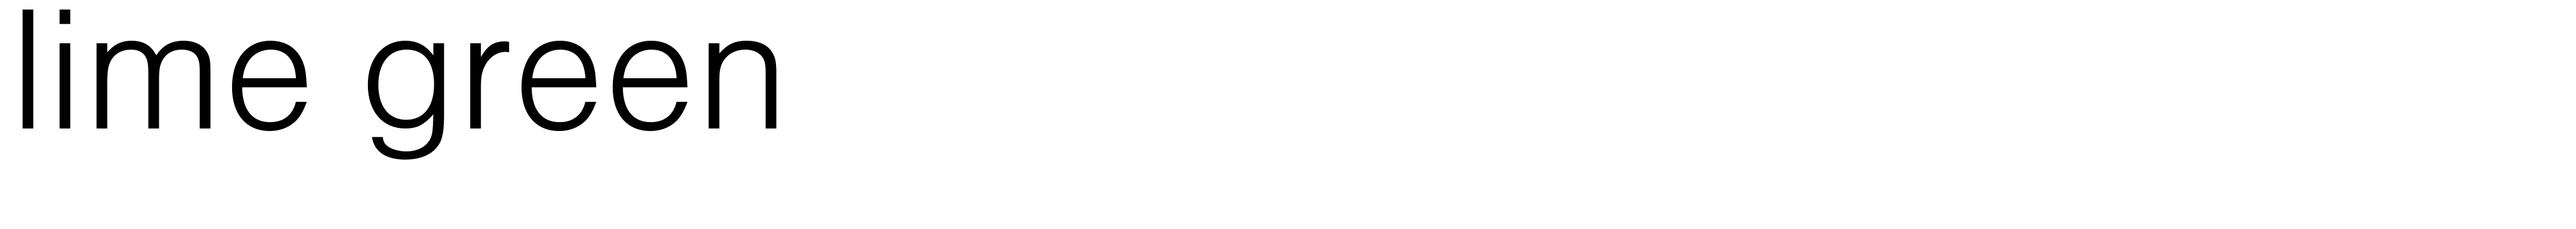
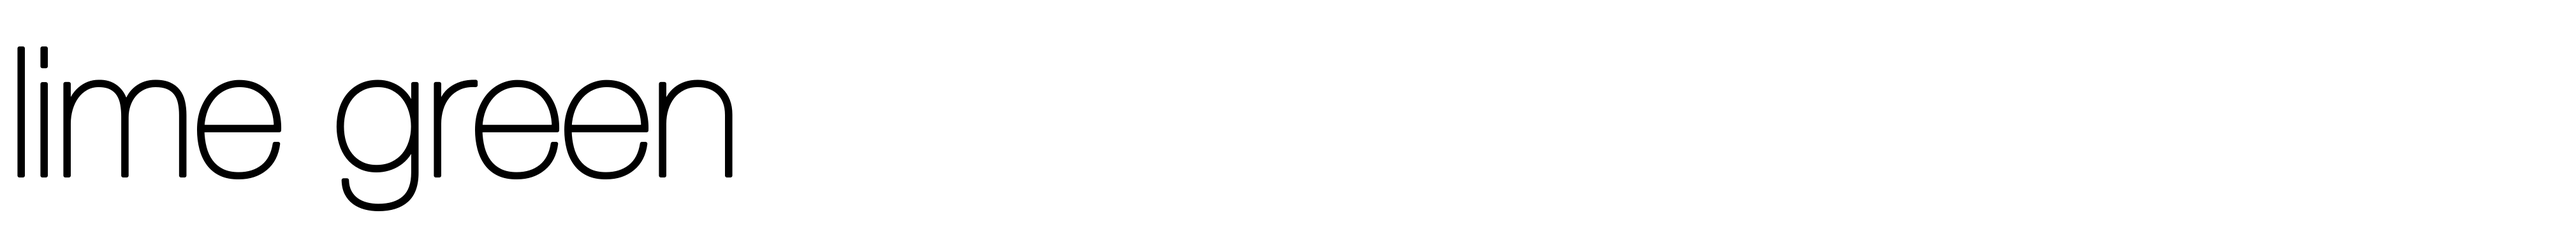
font adjuste

Changed region(s): [[0.0, 0.0306, 0.3119, 0.9167]]

diff --git a/pil.py b/pil.py
@@ -10,7 +10,7 @@ def create_image_tobase(text):
     img = Image.new('RGB', (4040, 360), color=(255, 255, 255))
     fnt = ImageFont.truetype('/Library/Fonts/Helvetica Neue UltraLight.ttf', 280)
     d = ImageDraw.Draw(img)
-    d.text((15, 15), str(text), font=fnt, fill=(0, 0, 0))
+    d.text((15, 15), str(text), font=fnt, fill=(0, 0, 0), stroke_width=3)
     img.save('pil_text_font.png')
     image = open('pil_text_font.png', 'rb')
     image_read = image.read()
@@ -18,5 +18,5 @@ def create_image_tobase(text):
     image_encode = str(image_encode).replace("b'","")
     image_encode = str(image_encode).replace("'", "")
     return image_encode
-a = create_image_tobase("ACSDSdfsd")
+a = create_image_tobase("0034")
 print(a)

diff --git a/main.py b/main.py
@@ -7,9 +7,9 @@ Image.MAX_IMAGE_PIXELS = 692136579
 
 def create_image_tobase(text,size):
     img = Image.new('RGB', (size, 360), color=(255, 255, 255))
-    fnt = ImageFont.truetype('/Library/Fonts/Nimbus-Sans-D-OT-Light_32752.ttf', 280)
+    fnt = ImageFont.truetype('/Library/Fonts/Helvetica Neue UltraLight.ttf', 280)
     d = ImageDraw.Draw(img)
-    d.text((15, 15), str(text), font=fnt, fill=(0, 0, 0))
+    d.text((15, 15), str(text), font=fnt, fill=(0, 0, 0), stroke_width=3)
     img.save('pil_text_font.png')
     image = open('pil_text_font.png', 'rb')
     image_read = image.read()
